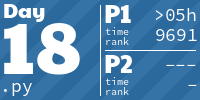
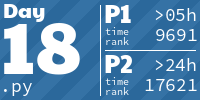
2023 - Day 18, part 2

Changed region(s): [[0.72, 0.78, 0.99, 0.93], [0.78, 0.57, 0.99, 0.72]]

diff --git a/ibidem/advent_of_code/y2023/dec18.py b/ibidem/advent_of_code/y2023/dec18.py
@@ -4,10 +4,12 @@ from collections import namedtuple
 from dataclasses import dataclass
 from enum import Enum
 
+from vectormath import Vector2
+
 from ibidem.advent_of_code.board import Board
 from ibidem.advent_of_code.util import get_input_name, gen_list
 
-INSTRUCTION_PATTERN = re.compile(r"([UDLR]) (\d+) \(#([0-9a-f]{6})\)")
+INSTRUCTION_PATTERN = re.compile(r"([UDLR]) (\d+) \(#([0-9a-f]{5})([0-9])\)")
 CROSSINGS_CACHE = {}
 
 
@@ -24,6 +26,9 @@ class Direction(Enum):
     def delta(self):
         return Coordinate(self.dx, self.dy)
 
+    def deltav(self):
+        return Vector2(self.dx, self.dy)
+
     @classmethod
     def from_first_char(cls, char):
         match char:
@@ -37,6 +42,21 @@ class Direction(Enum):
                 return cls.DOWN
             case _:
                 raise ValueError(f"Invalid character {char!r}")
+
+    @classmethod
+    def from_digit(cls, digit):
+        # 0 means R, 1 means D, 2 means L, and 3 means U.
+        match digit:
+            case 0:
+                return cls.RIGHT
+            case 1:
+                return cls.DOWN
+            case 2:
+                return cls.LEFT
+            case 3:
+                return cls.UP
+            case _:
+                raise ValueError(f"Invalid digit {digit!r}")
 
 
 class Coordinate(namedtuple("Coordinate", ["x", "y"])):
@@ -54,10 +74,17 @@ class Instruction:
 
 
 @gen_list
-def load(fobj):
+def load1(fobj):
     for line in fobj:
         if m := INSTRUCTION_PATTERN.match(line.strip()):
             yield Instruction(Direction.from_first_char(m.group(1)), int(m.group(2)))
+
+
+@gen_list
+def load2(fobj):
+    for line in fobj:
+        if m := INSTRUCTION_PATTERN.match(line.strip()):
+            yield Instruction(Direction.from_digit(int(m.group(4))), int(m.group(3), 16))
 
 
 def is_inside(board, coord):
@@ -129,13 +156,57 @@ def part1(input):
 
 
 def part2(input):
-    return None
+    path, addition = generate_path(input)
+    return poly_area(path) + addition
+
+
+def generate_path(input):
+    pos = Vector2(0, 0)
+    path = [pos]
+    addition = 0
+    down_left = left_down = False
+    for instruction in input[:-1]:
+        delta = instruction.distance * instruction.direction.deltav()
+        if instruction.direction == Direction.DOWN:
+            if left_down:
+                addition -= 1
+                left_down = False
+            addition += instruction.distance
+            down_left = True
+        elif instruction.direction == Direction.LEFT:
+            if down_left:
+                addition += 1
+                down_left = False
+            addition += instruction.distance
+            left_down = True
+        else:
+            down_left = False
+            left_down = False
+        new_pos = pos + delta
+        path.append(new_pos)
+        pos = new_pos
+    print(f"Generated path: {path!r}")
+    return path, addition
+
+
+def poly_area(path):
+    factors = []
+    for i in range(len(path)):
+        pos_i = path[i]
+        j = i + 1 if i + 1 < len(path) else 0
+        pos_j = path[j]
+        factors.append(pos_i.x * pos_j.y - pos_i.y * pos_j.x)
+    result = abs(sum(factors) // 2)
+    return result
 
 
 if __name__ == "__main__":
     with open(get_input_name(18, 2023)) as fobj:
-        p1_result = part1(load(fobj))
+        p1_result = part1(load1(fobj))
         print(f"Part 1: {p1_result}")
     with open(get_input_name(18, 2023)) as fobj:
-        p2_result = part2(load(fobj))
+        p1_result = part2(load1(fobj))
+        print(f"Part 2 on part 1 input: {p1_result}")
+    with open(get_input_name(18, 2023)) as fobj:
+        p2_result = part2(load2(fobj))
         print(f"Part 2: {p2_result}")

diff --git a/ibidem/advent_of_code/y2023/test/test_dec18.py b/ibidem/advent_of_code/y2023/test/test_dec18.py
@@ -3,8 +3,10 @@ import textwrap
 from collections import namedtuple
 
 import pytest
+from vectormath import Vector2 as V2
 
-from ibidem.advent_of_code.y2023.dec18 import load, part1, part2
+from ibidem.advent_of_code.y2023.dec18 import load1, part1, part2, load2, poly_area, Direction, generate_path, \
+    Instruction
 
 TestData = namedtuple('TestData', 'part1 part2 input')
 
@@ -35,17 +37,61 @@ class TestDec18():
         return request.param
 
     @pytest.fixture
-    def loaded(self, case):
-        return load(case.input)
+    def loaded1(self, case):
+        return load1(case.input)
 
-    def test_load(self, loaded):
-        assert len(loaded) == 14
-        
-    def test_part1(self, loaded, case):
-        result = part1(loaded)
+    def test_load1(self, loaded1):
+        assert len(loaded1) == 14
+
+    @pytest.fixture
+    def loaded2(self, case):
+        return load2(case.input)
+
+    def test_load2(self, loaded2):
+        assert len(loaded2) == 14
+        assert loaded2[0].distance == 461937
+        assert loaded2[0].direction == Direction.RIGHT
+        assert loaded2[1].distance == 56407
+        assert loaded2[1].direction == Direction.DOWN
+        assert loaded2[-1].distance == 500254
+        assert loaded2[-1].direction == Direction.UP
+
+    def test_part1(self, loaded1, case):
+        result = part1(loaded1)
         assert result == case.part1
-        
-    @pytest.mark.skip(reason="No clue")
-    def test_part2(self, loaded, case):
-        result = part2(loaded)
+
+    @pytest.mark.parametrize("instructions, expected_path, expected_addition", [
+        (None,
+         [
+             V2(0, 0), V2(6, 0), V2(6, -5), V2(4, -5), V2(4, -7), V2(6, -7), V2(6, -9),
+             V2(1, -9), V2(1, -7), V2(0, -7), V2(0, -5), V2(2, -5), V2(2, -2), V2(0, -2)
+         ],
+         20
+         ),
+        (
+                [Instruction(Direction.RIGHT, 1), Instruction(Direction.DOWN, 1), Instruction(Direction.LEFT, 1),
+                 Instruction(Direction.UP, 1)],
+                [V2(0, 0), V2(1, 0), V2(1, -1), V2(0, -1)],
+                3
+        ),
+    ])
+    def test_generate_path(self, loaded1, instructions, expected_path, expected_addition):
+        if instructions is None:
+            instructions = loaded1
+        actual_path, actual_addition = generate_path(instructions)
+        assert actual_addition == expected_addition
+        for i, pos in enumerate(actual_path):
+            assert pos.x == expected_path[i].x
+            assert pos.y == expected_path[i].y
+
+    def test_part2(self, loaded2, case):
+        result = part2(loaded2)
         assert result == case.part2
+
+    @pytest.mark.parametrize("path, expected", [
+        ([V2(0, 0), V2(0, 1), V2(1, 1), V2(1, 0)], 1),
+        ([V2(0, 0), V2(6, 0), V2(6, -5), V2(4, -5), V2(4, -7), V2(6, -7), V2(6, -9),
+          V2(1, -9), V2(1, -7), V2(0, -7), V2(0, -5), V2(2, -5), V2(2, -2), V2(0, -2)], 42),
+    ])
+    def test_poly_area(self, path, expected):
+        assert poly_area(path) == expected
